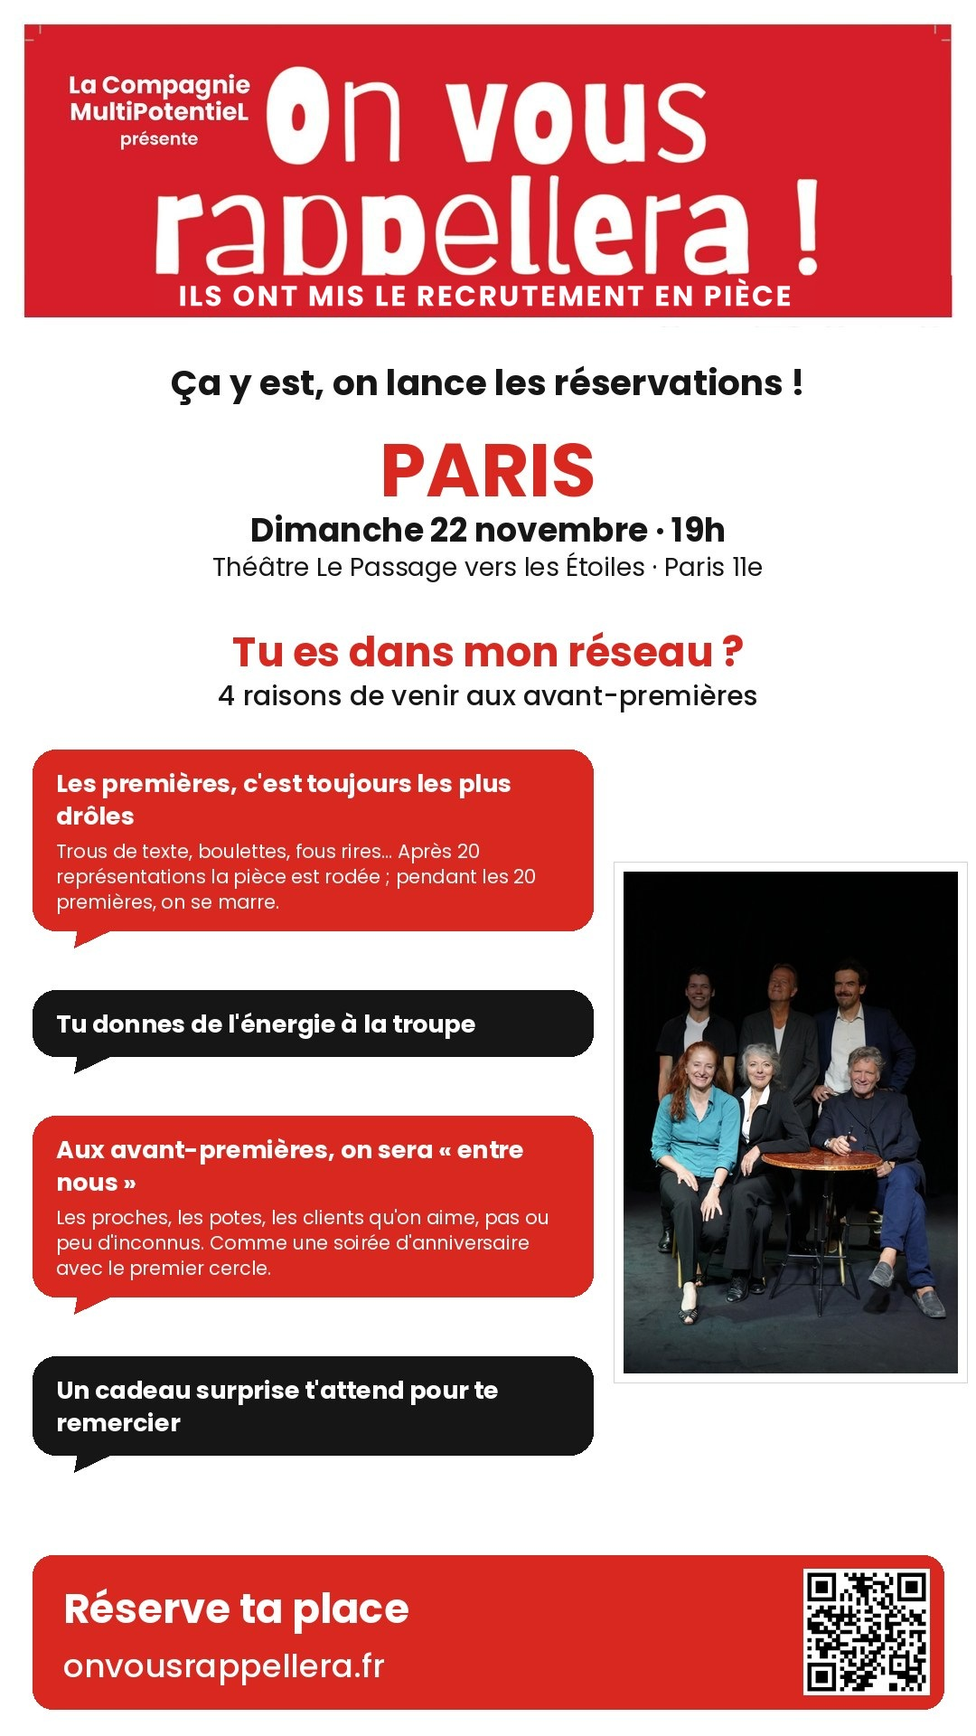
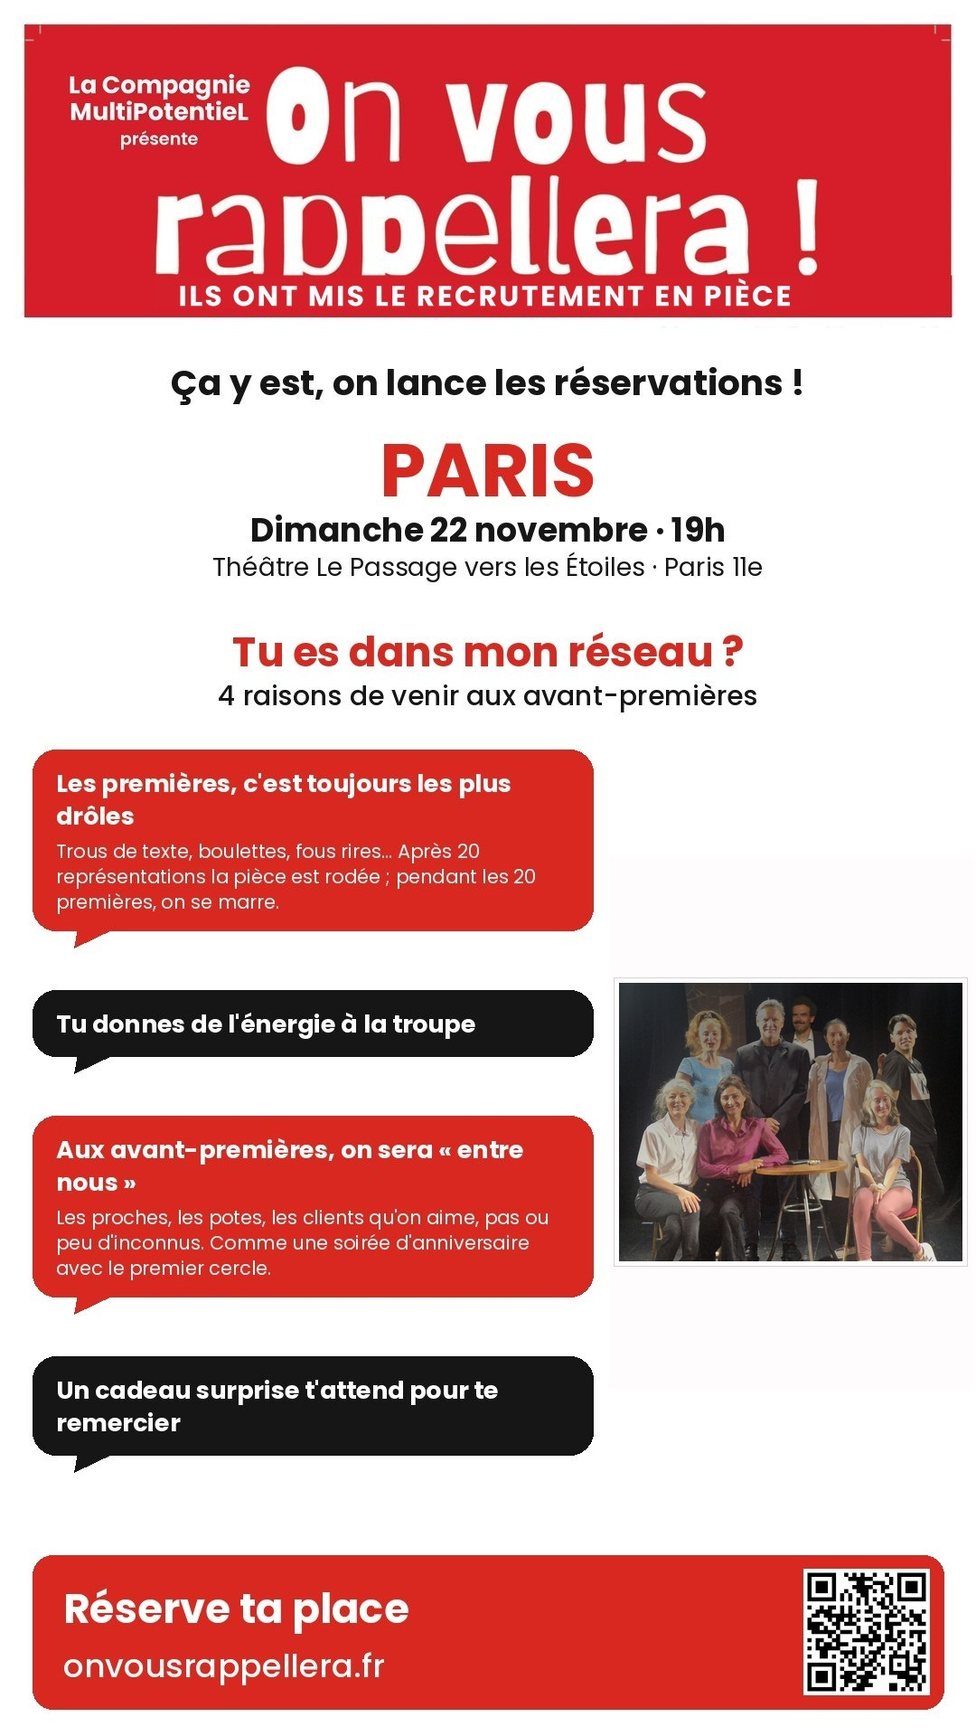
Engagement : nouvelle photo de troupe avec Nolwenn (et Arthur)
Claude-Session: https://claude.ai/code/session_01Mm1mn4H8znvzCX7iio1V9J

Changed region(s): [[0.6111, 0.5, 1.0, 0.8125]]

diff --git a/affiches.html b/affiches.html
@@ -1,3 +1,3 @@
 <!doctype html><html lang="fr"><head><meta charset="utf-8"><meta name="viewport" content="width=device-width,initial-scale=1"><meta name="robots" content="noindex"><title>Les affiches des troupes — On Vous Rappellera</title>
 <style>body{margin:0;background:#fff;color:#191919;font-family:Poppins,Arial,sans-serif}main{max-width:1180px;margin:0 auto;padding:24px 16px 60px}h1{color:#d51e29;font-size:1.7rem;margin:.2rem 0 .3rem}p.intro{margin:0 0 1.6rem;color:#4a463f}.grid{display:grid;grid-template-columns:repeat(auto-fill,minmax(320px,1fr));gap:28px}figure{margin:0}figure h2{font-size:1.05rem;margin:0 0 .5rem;color:#d51e29}figure h2 span{color:#191919;font-weight:600}img{width:100%;height:auto;display:block;border:1px solid #ddd;border-radius:6px}figcaption{margin-top:.45rem}figcaption a{color:#0b57d0;text-decoration:underline}@media(max-width:700px){.grid{grid-template-columns:1fr}}</style></head>
-<body><main><h1>Les affiches de <b>ON VOUS RAPPELLERA</b></h1><p class="intro">Une affiche par représentation, avec la troupe qui joue ce soir-là. Cliquez sur une affiche pour l'ouvrir en grand, ou téléchargez-la pour la partager.</p><div class="grid"><figure><h2>TOULOUSE <span>Mercredi 2 décembre · 20h</span></h2><a href="assets/affiches/affiche-toulouse-0212-20h.jpg" target="_blank" rel="noopener"><img src="assets/affiches/affiche-toulouse-0212-20h.jpg" alt="Affiche TOULOUSE Mercredi 2 décembre · 20h" loading="lazy"></a><figcaption><a href="assets/affiches/affiche-toulouse-0212-20h.jpg" download>Télécharger l'affiche</a></figcaption></figure><figure><h2>RENNES <span>Mercredi 9 décembre · 20h</span></h2><a href="assets/affiches/affiche-rennes-0912-20h.jpg" target="_blank" rel="noopener"><img src="assets/affiches/affiche-rennes-0912-20h.jpg" alt="Affiche RENNES Mercredi 9 décembre · 20h" loading="lazy"></a><figcaption><a href="assets/affiches/affiche-rennes-0912-20h.jpg" download>Télécharger l'affiche</a></figcaption></figure><figure><h2>BORDEAUX <span>Jeudi 10 décembre · 18h30</span></h2><a href="assets/affiches/affiche-bordeaux-1012-1830.jpg?v=2" target="_blank" rel="noopener"><img src="assets/affiches/affiche-bordeaux-1012-1830.jpg?v=2" alt="Affiche BORDEAUX Jeudi 10 décembre · 18h30" loading="lazy"></a><figcaption><a href="assets/affiches/affiche-bordeaux-1012-1830.jpg?v=2" download>Télécharger l'affiche</a></figcaption></figure><figure><h2>BORDEAUX <span>Jeudi 10 décembre · 20h30</span></h2><a href="assets/affiches/affiche-bordeaux-1012-2030.jpg?v=2" target="_blank" rel="noopener"><img src="assets/affiches/affiche-bordeaux-1012-2030.jpg?v=2" alt="Affiche BORDEAUX Jeudi 10 décembre · 20h30" loading="lazy"></a><figcaption><a href="assets/affiches/affiche-bordeaux-1012-2030.jpg?v=2" download>Télécharger l'affiche</a></figcaption></figure><figure><h2>PARIS <span>Samedi 12 décembre · 21h30</span></h2><a href="assets/affiches/affiche-paris-1212-2130.jpg?v=5" target="_blank" rel="noopener"><img src="assets/affiches/affiche-paris-1212-2130.jpg?v=5" alt="Affiche PARIS Samedi 12 décembre · 21h30 — troupe Esprit d’équipe" loading="lazy"></a><figcaption><a href="assets/affiches/affiche-paris-1212-2130.jpg?v=5" download>Télécharger l'affiche</a></figcaption></figure><figure><h2>LYON <span>Mercredi 16 décembre · 19h</span></h2><a href="assets/affiches/affiche-lyon-1612-19h.jpg?v=20261020" target="_blank" rel="noopener"><img src="assets/affiches/affiche-lyon-1612-19h.jpg?v=20261020" alt="Affiche LYON Mercredi 16 décembre · 19h" loading="lazy"></a><figcaption><a href="assets/affiches/affiche-lyon-1612-19h.jpg?v=20261020" download>Télécharger l'affiche</a></figcaption></figure><figure><h2>LYON <span>Mercredi 16 décembre · 21h</span></h2><a href="assets/affiches/affiche-lyon-1612-21h.jpg?v=20261020" target="_blank" rel="noopener"><img src="assets/affiches/affiche-lyon-1612-21h.jpg?v=20261020" alt="Affiche LYON Mercredi 16 décembre · 21h" loading="lazy"></a><figcaption><a href="assets/affiches/affiche-lyon-1612-21h.jpg?v=20261020" download>Télécharger l'affiche</a></figcaption></figure><figure><h2>BORDEAUX <span>Jeudi 17 décembre · 18h30</span></h2><a href="assets/affiches/affiche-bordeaux-1712-1830.jpg?v=2" target="_blank" rel="noopener"><img src="assets/affiches/affiche-bordeaux-1712-1830.jpg?v=2" alt="Affiche BORDEAUX Jeudi 17 décembre · 18h30" loading="lazy"></a><figcaption><a href="assets/affiches/affiche-bordeaux-1712-1830.jpg?v=2" download>Télécharger l'affiche</a></figcaption></figure><figure><h2>BORDEAUX <span>Jeudi 17 décembre · 20h30</span></h2><a href="assets/affiches/affiche-bordeaux-1712-2030.jpg?v=2" target="_blank" rel="noopener"><img src="assets/affiches/affiche-bordeaux-1712-2030.jpg?v=2" alt="Affiche BORDEAUX Jeudi 17 décembre · 20h30" loading="lazy"></a><figcaption><a href="assets/affiches/affiche-bordeaux-1712-2030.jpg?v=2" download>Télécharger l'affiche</a></figcaption></figure><figure><h2>PARIS <span>Vendredi 18 décembre · 19h30</span></h2><a href="assets/affiches/affiche-paris-1812-1930.jpg?v=5" target="_blank" rel="noopener"><img src="assets/affiches/affiche-paris-1812-1930.jpg?v=5" alt="Affiche PARIS Vendredi 18 décembre · 19h30 — troupe Esprit d’équipe" loading="lazy"></a><figcaption><a href="assets/affiches/affiche-paris-1812-1930.jpg?v=5" download>Télécharger l'affiche</a></figcaption></figure><figure><h2>NANTES <span>Mardi 19 janvier · 21h</span></h2><a href="assets/affiches/affiche-nantes-1901-21h.jpg" target="_blank" rel="noopener"><img src="assets/affiches/affiche-nantes-1901-21h.jpg" alt="Affiche NANTES Mardi 19 janvier · 21h" loading="lazy"></a><figcaption><a href="assets/affiches/affiche-nantes-1901-21h.jpg" download>Télécharger l'affiche</a></figcaption></figure><figure><h2>MONTPELLIER <span>Date à venir</span></h2><a href="assets/affiches/affiche-montpellier-date-a-venir.jpg?v=2" target="_blank" rel="noopener"><img src="assets/affiches/affiche-montpellier-date-a-venir.jpg?v=2" alt="Affiche MONTPELLIER Date à venir" loading="lazy"></a><figcaption><a href="assets/affiches/affiche-montpellier-date-a-venir.jpg?v=2" download>Télécharger l'affiche</a></figcaption></figure><figure><h2>PARIS <span>Troupe Engagement · date à venir</span></h2><a href="assets/affiches/affiche-paris-engagement-date-a-venir.jpg" target="_blank" rel="noopener"><img src="assets/affiches/affiche-paris-engagement-date-a-venir.jpg" alt="Affiche PARIS Troupe Engagement · date à venir" loading="lazy"></a><figcaption><a href="assets/affiches/affiche-paris-engagement-date-a-venir.jpg" download>Télécharger l'affiche</a></figcaption></figure><figure><h2>PARIS <span>Troupe Honnêteté · date à venir</span></h2><a href="assets/affiches/affiche-paris-honnetete-date-a-venir.jpg?v=2" target="_blank" rel="noopener"><img src="assets/affiches/affiche-paris-honnetete-date-a-venir.jpg?v=2" alt="Affiche PARIS Troupe Honnêteté · date à venir" loading="lazy"></a><figcaption><a href="assets/affiches/affiche-paris-honnetete-date-a-venir.jpg?v=2" download>Télécharger l'affiche</a></figcaption></figure></div></main></body></html>
+<body><main><h1>Les affiches de <b>ON VOUS RAPPELLERA</b></h1><p class="intro">Une affiche par représentation, avec la troupe qui joue ce soir-là. Cliquez sur une affiche pour l'ouvrir en grand, ou téléchargez-la pour la partager.</p><div class="grid"><figure><h2>TOULOUSE <span>Mercredi 2 décembre · 20h</span></h2><a href="assets/affiches/affiche-toulouse-0212-20h.jpg" target="_blank" rel="noopener"><img src="assets/affiches/affiche-toulouse-0212-20h.jpg" alt="Affiche TOULOUSE Mercredi 2 décembre · 20h" loading="lazy"></a><figcaption><a href="assets/affiches/affiche-toulouse-0212-20h.jpg" download>Télécharger l'affiche</a></figcaption></figure><figure><h2>RENNES <span>Mercredi 9 décembre · 20h</span></h2><a href="assets/affiches/affiche-rennes-0912-20h.jpg" target="_blank" rel="noopener"><img src="assets/affiches/affiche-rennes-0912-20h.jpg" alt="Affiche RENNES Mercredi 9 décembre · 20h" loading="lazy"></a><figcaption><a href="assets/affiches/affiche-rennes-0912-20h.jpg" download>Télécharger l'affiche</a></figcaption></figure><figure><h2>BORDEAUX <span>Jeudi 10 décembre · 18h30</span></h2><a href="assets/affiches/affiche-bordeaux-1012-1830.jpg?v=2" target="_blank" rel="noopener"><img src="assets/affiches/affiche-bordeaux-1012-1830.jpg?v=2" alt="Affiche BORDEAUX Jeudi 10 décembre · 18h30" loading="lazy"></a><figcaption><a href="assets/affiches/affiche-bordeaux-1012-1830.jpg?v=2" download>Télécharger l'affiche</a></figcaption></figure><figure><h2>BORDEAUX <span>Jeudi 10 décembre · 20h30</span></h2><a href="assets/affiches/affiche-bordeaux-1012-2030.jpg?v=2" target="_blank" rel="noopener"><img src="assets/affiches/affiche-bordeaux-1012-2030.jpg?v=2" alt="Affiche BORDEAUX Jeudi 10 décembre · 20h30" loading="lazy"></a><figcaption><a href="assets/affiches/affiche-bordeaux-1012-2030.jpg?v=2" download>Télécharger l'affiche</a></figcaption></figure><figure><h2>PARIS <span>Samedi 12 décembre · 21h30</span></h2><a href="assets/affiches/affiche-paris-1212-2130.jpg?v=5" target="_blank" rel="noopener"><img src="assets/affiches/affiche-paris-1212-2130.jpg?v=5" alt="Affiche PARIS Samedi 12 décembre · 21h30 — troupe Esprit d’équipe" loading="lazy"></a><figcaption><a href="assets/affiches/affiche-paris-1212-2130.jpg?v=5" download>Télécharger l'affiche</a></figcaption></figure><figure><h2>LYON <span>Mercredi 16 décembre · 19h</span></h2><a href="assets/affiches/affiche-lyon-1612-19h.jpg?v=20261020" target="_blank" rel="noopener"><img src="assets/affiches/affiche-lyon-1612-19h.jpg?v=20261020" alt="Affiche LYON Mercredi 16 décembre · 19h" loading="lazy"></a><figcaption><a href="assets/affiches/affiche-lyon-1612-19h.jpg?v=20261020" download>Télécharger l'affiche</a></figcaption></figure><figure><h2>LYON <span>Mercredi 16 décembre · 21h</span></h2><a href="assets/affiches/affiche-lyon-1612-21h.jpg?v=20261020" target="_blank" rel="noopener"><img src="assets/affiches/affiche-lyon-1612-21h.jpg?v=20261020" alt="Affiche LYON Mercredi 16 décembre · 21h" loading="lazy"></a><figcaption><a href="assets/affiches/affiche-lyon-1612-21h.jpg?v=20261020" download>Télécharger l'affiche</a></figcaption></figure><figure><h2>BORDEAUX <span>Jeudi 17 décembre · 18h30</span></h2><a href="assets/affiches/affiche-bordeaux-1712-1830.jpg?v=2" target="_blank" rel="noopener"><img src="assets/affiches/affiche-bordeaux-1712-1830.jpg?v=2" alt="Affiche BORDEAUX Jeudi 17 décembre · 18h30" loading="lazy"></a><figcaption><a href="assets/affiches/affiche-bordeaux-1712-1830.jpg?v=2" download>Télécharger l'affiche</a></figcaption></figure><figure><h2>BORDEAUX <span>Jeudi 17 décembre · 20h30</span></h2><a href="assets/affiches/affiche-bordeaux-1712-2030.jpg?v=2" target="_blank" rel="noopener"><img src="assets/affiches/affiche-bordeaux-1712-2030.jpg?v=2" alt="Affiche BORDEAUX Jeudi 17 décembre · 20h30" loading="lazy"></a><figcaption><a href="assets/affiches/affiche-bordeaux-1712-2030.jpg?v=2" download>Télécharger l'affiche</a></figcaption></figure><figure><h2>PARIS <span>Vendredi 18 décembre · 19h30</span></h2><a href="assets/affiches/affiche-paris-1812-1930.jpg?v=5" target="_blank" rel="noopener"><img src="assets/affiches/affiche-paris-1812-1930.jpg?v=5" alt="Affiche PARIS Vendredi 18 décembre · 19h30 — troupe Esprit d’équipe" loading="lazy"></a><figcaption><a href="assets/affiches/affiche-paris-1812-1930.jpg?v=5" download>Télécharger l'affiche</a></figcaption></figure><figure><h2>NANTES <span>Mardi 19 janvier · 21h</span></h2><a href="assets/affiches/affiche-nantes-1901-21h.jpg" target="_blank" rel="noopener"><img src="assets/affiches/affiche-nantes-1901-21h.jpg" alt="Affiche NANTES Mardi 19 janvier · 21h" loading="lazy"></a><figcaption><a href="assets/affiches/affiche-nantes-1901-21h.jpg" download>Télécharger l'affiche</a></figcaption></figure><figure><h2>MONTPELLIER <span>Date à venir</span></h2><a href="assets/affiches/affiche-montpellier-date-a-venir.jpg?v=2" target="_blank" rel="noopener"><img src="assets/affiches/affiche-montpellier-date-a-venir.jpg?v=2" alt="Affiche MONTPELLIER Date à venir" loading="lazy"></a><figcaption><a href="assets/affiches/affiche-montpellier-date-a-venir.jpg?v=2" download>Télécharger l'affiche</a></figcaption></figure><figure><h2>PARIS <span>Troupe Engagement · date à venir</span></h2><a href="assets/affiches/affiche-paris-engagement-date-a-venir.jpg?v=20261107" target="_blank" rel="noopener"><img src="assets/affiches/affiche-paris-engagement-date-a-venir.jpg?v=20261107" alt="Affiche PARIS Troupe Engagement · date à venir" loading="lazy"></a><figcaption><a href="assets/affiches/affiche-paris-engagement-date-a-venir.jpg?v=20261107" download>Télécharger l'affiche</a></figcaption></figure><figure><h2>PARIS <span>Troupe Honnêteté · date à venir</span></h2><a href="assets/affiches/affiche-paris-honnetete-date-a-venir.jpg?v=2" target="_blank" rel="noopener"><img src="assets/affiches/affiche-paris-honnetete-date-a-venir.jpg?v=2" alt="Affiche PARIS Troupe Honnêteté · date à venir" loading="lazy"></a><figcaption><a href="assets/affiches/affiche-paris-honnetete-date-a-venir.jpg?v=2" download>Télécharger l'affiche</a></figcaption></figure></div></main></body></html>

diff --git a/index.html b/index.html
@@ -494,7 +494,7 @@ html{-webkit-text-size-adjust:100%;text-size-adjust:100%;}
       <div class="field full" id="f-info">
     <div class="vlist">
       <h3 class="vbloc-t">Nos troupes résidentes</h3>
-      <details class="vd" data-cvville="-"><summary>Paris<em>7 séances</em></summary><div class="vbody" id="vparis"><div class="vgrp" data-cvville="Paris" data-troupe="Engagement"><div class="vdates" data-ville="Paris" data-codes="tr:Engagement"></div><figure class="vtroupe"><img src="assets/troupes/troupe-paris-engagement.jpg?v=1791139298820" alt="La troupe Engagement, à Paris" loading="lazy"><figcaption>La troupe Engagement</figcaption></figure></div><!--/vgrp--><div class="vgrp" data-cvville="Paris" data-troupe="Les 3 troupes"><div class="vdates" data-ville="Paris" data-codes="tr:Les 3 troupes"></div><figure class="vtroupe" style="display:flex;flex-wrap:wrap;gap:6px"><img src="assets/troupes/troupe-paris-honnetete.jpg?v=2" alt="La troupe Honnêteté, à Paris" loading="lazy" style="flex:1 1 30%;min-width:0"><img src="assets/troupes/troupe-paris-engagement.jpg?v=1791139298820" alt="La troupe Engagement, à Paris" loading="lazy" style="flex:1 1 30%;min-width:0"><img src="assets/troupes/troupe-paris-esprit-d-equipe.jpg?v=1792436852950" alt="La troupe Esprit d'équipe, à Paris" loading="lazy" style="flex:1 1 30%;min-width:0"><figcaption style="flex-basis:100%">Les troupes Honnêteté, Engagement et Esprit d'équipe</figcaption></figure></div><!--/vgrp--><div class="vgrp" data-cvville="Paris" data-troupe="Honnêteté"><div class="vdates" data-ville="Paris" data-codes="tr:Honnêteté"></div><figure class="vtroupe"><img src="assets/troupes/troupe-paris-honnetete.jpg?v=2" alt="La troupe Honnêteté, à Paris" loading="lazy"><figcaption>La troupe Honnêteté</figcaption></figure></div><!--/vgrp--><div class="vgrp" data-cvville="Paris" data-troupe="Esprit d'équipe"><div class="vdates" data-ville="Paris" data-codes="tr:Esprit d'équipe"></div><figure class="vtroupe"><img src="assets/troupes/troupe-paris-esprit-d-equipe.jpg?v=1792436852950" alt="La troupe Esprit d'équipe, à Paris" loading="lazy"><figcaption>La troupe Esprit d'équipe</figcaption></figure></div><!--/vgrp--><a class="vprev" href="#prevenez-moi" data-ville="Paris">Être prévenu pour Paris &rarr;</a></div></details>
+      <details class="vd" data-cvville="-"><summary>Paris<em>7 séances</em></summary><div class="vbody" id="vparis"><div class="vgrp" data-cvville="Paris" data-troupe="Engagement"><div class="vdates" data-ville="Paris" data-codes="tr:Engagement"></div><figure class="vtroupe"><img src="assets/troupes/troupe-paris-engagement.jpg?v=20261107" alt="La troupe Engagement, à Paris" loading="lazy"><figcaption>La troupe Engagement</figcaption></figure></div><!--/vgrp--><div class="vgrp" data-cvville="Paris" data-troupe="Les 3 troupes"><div class="vdates" data-ville="Paris" data-codes="tr:Les 3 troupes"></div><figure class="vtroupe" style="display:flex;flex-wrap:wrap;gap:6px"><img src="assets/troupes/troupe-paris-honnetete.jpg?v=2" alt="La troupe Honnêteté, à Paris" loading="lazy" style="flex:1 1 30%;min-width:0"><img src="assets/troupes/troupe-paris-engagement.jpg?v=20261107" alt="La troupe Engagement, à Paris" loading="lazy" style="flex:1 1 30%;min-width:0"><img src="assets/troupes/troupe-paris-esprit-d-equipe.jpg?v=1792436852950" alt="La troupe Esprit d'équipe, à Paris" loading="lazy" style="flex:1 1 30%;min-width:0"><figcaption style="flex-basis:100%">Les troupes Honnêteté, Engagement et Esprit d'équipe</figcaption></figure></div><!--/vgrp--><div class="vgrp" data-cvville="Paris" data-troupe="Honnêteté"><div class="vdates" data-ville="Paris" data-codes="tr:Honnêteté"></div><figure class="vtroupe"><img src="assets/troupes/troupe-paris-honnetete.jpg?v=2" alt="La troupe Honnêteté, à Paris" loading="lazy"><figcaption>La troupe Honnêteté</figcaption></figure></div><!--/vgrp--><div class="vgrp" data-cvville="Paris" data-troupe="Esprit d'équipe"><div class="vdates" data-ville="Paris" data-codes="tr:Esprit d'équipe"></div><figure class="vtroupe"><img src="assets/troupes/troupe-paris-esprit-d-equipe.jpg?v=1792436852950" alt="La troupe Esprit d'équipe, à Paris" loading="lazy"><figcaption>La troupe Esprit d'équipe</figcaption></figure></div><!--/vgrp--><a class="vprev" href="#prevenez-moi" data-ville="Paris">Être prévenu pour Paris &rarr;</a></div></details>
       <details class="vd"><summary>Bordeaux<em>4 séances</em></summary><div class="vbody"><div class="vdates" data-ville="Bordeaux"></div><figure class="vtroupe"><img src="assets/troupes/troupe-bordeaux.jpg?v=2" alt="La troupe de Bordeaux" loading="lazy"><figcaption>La troupe de Bordeaux</figcaption></figure><a class="vprev" href="#prevenez-moi" data-ville="Bordeaux">Être prévenu pour Bordeaux &rarr;</a></div></details>
       <details class="vd"><summary>Lyon<em>2 séances</em></summary><div class="vbody"><div class="vdates" data-ville="Lyon"></div><a class="vprev" href="#prevenez-moi" data-ville="Lyon">Être prévenu pour Lyon &rarr;</a></div></details>
       <details class="vd"><summary>Nantes<em>1 date</em></summary><div class="vbody"><div class="vdates" data-ville="Nantes"></div><figure class="vtroupe" style="display:flex;flex-wrap:wrap;gap:6px"><img src="assets/troupes/troupe-nantes.jpg?v=1" alt="La troupe de Nantes" loading="lazy" data-ph="[&quot;assets/troupes/troupe-nantes.jpg?v=1&quot;,&quot;assets/troupes/troupe-nantes-2.jpg?v=1&quot;]" data-i="0" style="flex:1 1 45%;min-width:0"><img src="assets/troupes/troupe-nantes-2.jpg?v=1" alt="La troupe de Nantes" loading="lazy" data-ph="[&quot;assets/troupes/troupe-nantes.jpg?v=1&quot;,&quot;assets/troupes/troupe-nantes-2.jpg?v=1&quot;]" data-i="1" style="flex:1 1 45%;min-width:0"><figcaption style="flex-basis:100%">La troupe de Nantes</figcaption></figure><a class="vprev" href="#prevenez-moi" data-ville="Nantes">Être prévenu pour Nantes &rarr;</a></div></details>

diff --git a/bdr-toulouse-434fac46.html b/bdr-toulouse-434fac46.html
@@ -189,7 +189,7 @@ footer a{color:var(--gris);}
     <span class="tag">La troupe</span>
     <h2>Surprise&nbsp;!</h2>
     <p>Une des 8 troupes qui jouent <span class="titre">ON VOUS RAPPELLERA</span> aux quatre coins de la France viendra jouer à Toulouse. Laquelle&nbsp;? Vous le découvrirez le soir même.</p>
-    <div class="slider"><button type="button" class="snav sprev" aria-label="Troupe précédente">&#8249;</button><div class="strack" id="strack"><figure class="sl"><span class="cadre"><img src="assets/troupes/troupe-paris-esprit-d-equipe.jpg" alt="La troupe Paris — Esprit d'équipe" loading="lazy"></span><figcaption>Paris — Esprit d'équipe</figcaption></figure><figure class="sl"><span class="cadre duo"><span class="dm"><img src="assets/troupes/troupe-paris-engagement.jpg" alt="La troupe Paris — Engagement" loading="lazy"><small>Paris — Engagement</small></span><span class="dm"><img src="assets/troupes/troupe-rennes.jpg" alt="La troupe de Rennes" loading="lazy"><small>Rennes</small></span></span></figure><figure class="sl"><span class="cadre"><img src="assets/troupes/troupe-paris-honnetete.jpg" alt="La troupe Paris — Honnêteté" loading="lazy"></span><figcaption>Paris — Honnêteté</figcaption></figure><figure class="sl"><span class="cadre"><img src="assets/troupes/troupe-lyon.jpg" alt="La troupe Lyon" loading="lazy"></span><figcaption>Lyon</figcaption></figure><figure class="sl"><span class="cadre"><img src="assets/troupes/troupe-bordeaux.jpg" alt="La troupe Bordeaux" loading="lazy"></span><figcaption>Bordeaux</figcaption></figure><figure class="sl"><span class="cadre"><img src="assets/troupes/troupe-montpellier.jpg" alt="La troupe Montpellier" loading="lazy"></span><figcaption>Montpellier</figcaption></figure><figure class="sl"><span class="cadre"><img src="assets/troupes/troupe-nantes-2.jpg" alt="La troupe Nantes" loading="lazy"></span><figcaption>Nantes</figcaption></figure></div><button type="button" class="snav snext" aria-label="Troupe suivante">&#8250;</button></div><p class="scount" id="scount">Troupe 1 / 8</p>
+    <div class="slider"><button type="button" class="snav sprev" aria-label="Troupe précédente">&#8249;</button><div class="strack" id="strack"><figure class="sl"><span class="cadre"><img src="assets/troupes/troupe-paris-esprit-d-equipe.jpg" alt="La troupe Paris — Esprit d'équipe" loading="lazy"></span><figcaption>Paris — Esprit d'équipe</figcaption></figure><figure class="sl"><span class="cadre duo"><span class="dm"><img src="assets/troupes/troupe-paris-engagement.jpg?v=20261107" alt="La troupe Paris — Engagement" loading="lazy"><small>Paris — Engagement</small></span><span class="dm"><img src="assets/troupes/troupe-rennes.jpg" alt="La troupe de Rennes" loading="lazy"><small>Rennes</small></span></span></figure><figure class="sl"><span class="cadre"><img src="assets/troupes/troupe-paris-honnetete.jpg" alt="La troupe Paris — Honnêteté" loading="lazy"></span><figcaption>Paris — Honnêteté</figcaption></figure><figure class="sl"><span class="cadre"><img src="assets/troupes/troupe-lyon.jpg" alt="La troupe Lyon" loading="lazy"></span><figcaption>Lyon</figcaption></figure><figure class="sl"><span class="cadre"><img src="assets/troupes/troupe-bordeaux.jpg" alt="La troupe Bordeaux" loading="lazy"></span><figcaption>Bordeaux</figcaption></figure><figure class="sl"><span class="cadre"><img src="assets/troupes/troupe-montpellier.jpg" alt="La troupe Montpellier" loading="lazy"></span><figcaption>Montpellier</figcaption></figure><figure class="sl"><span class="cadre"><img src="assets/troupes/troupe-nantes-2.jpg" alt="La troupe Nantes" loading="lazy"></span><figcaption>Nantes</figcaption></figure></div><button type="button" class="snav snext" aria-label="Troupe suivante">&#8250;</button></div><p class="scount" id="scount">Troupe 1 / 8</p>
     <p class="surprise">Laquelle viendra à Toulouse&nbsp;? <b>Réponse le 2 décembre.</b></p>
   </section>
 
